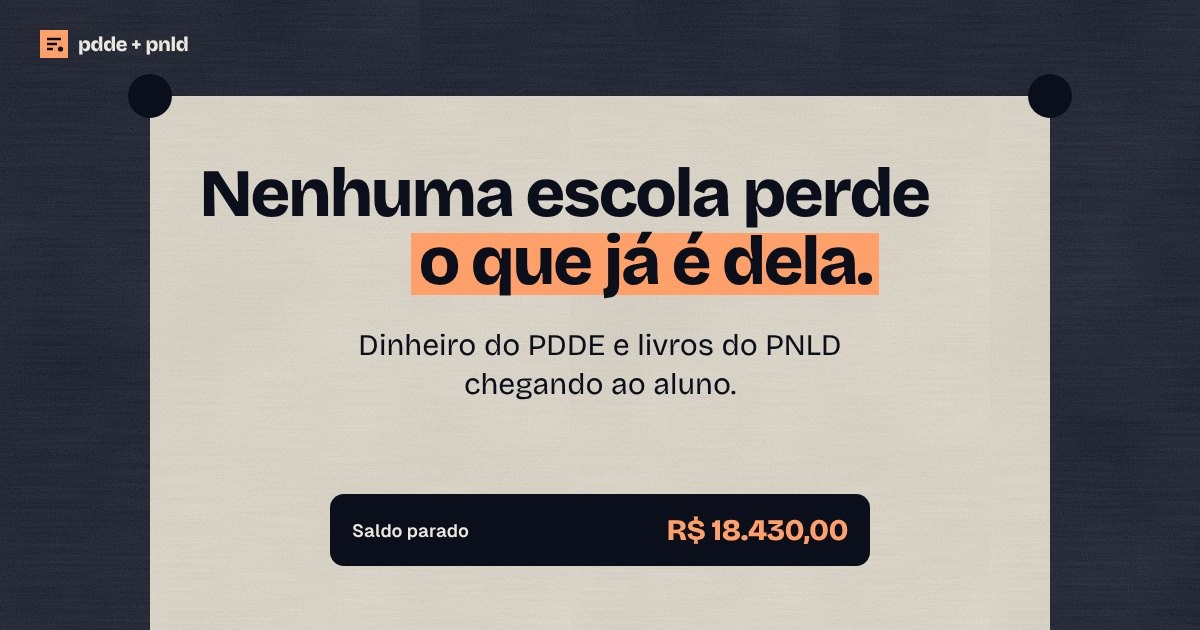
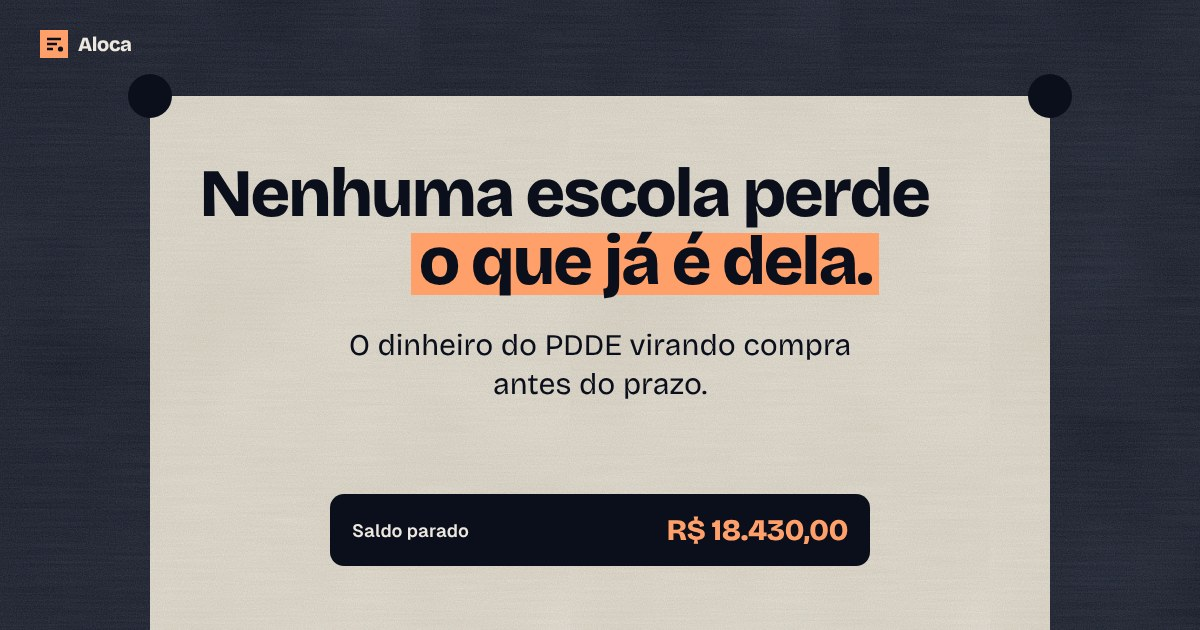
Feat: Adiciona o nome Aloca

Changed region(s): [[0.2775, 0.5127, 0.7092, 0.6333], [0.0617, 0.0603, 0.1542, 0.0905]]

diff --git a/index.html b/index.html
@@ -4,9 +4,9 @@
 		<meta charset="utf-8">
 		<meta name="viewport" content="width=device-width, initial-scale=1">
 
-		<title>Nenhuma escola perde o que já é dela | PDDE no prazo</title>
+		<title>Aloca | Nenhuma escola perde o que já é dela</title>
 		<meta name="description" content="Plataforma que ajuda o diretor e a APM a planejar e gastar o dinheiro do PDDE antes do prazo de estorno, com plano de compra, orçamentos e ata prontos.">
-		<meta name="keywords" content="PDDE, PDDE Básico, FNDE, escola pública, diretor escolar, APM, Unidade Executora, plano de compra, estorno do PDDE, Hack Brasil">
+		<meta name="keywords" content="PDDE, PDDE Básico, FNDE, escola pública, diretor escolar, APM, Unidade Executora, plano de compra, estorno do PDDE, Aloca, Hack Brasil">
 		<meta name="author" content="Guilherme Carvalho Mais, Gabriel Duarte Frias, João Gabriel Breganon Ferreira">
 		<meta name="robots" content="index, follow, max-image-preview:large">
 		<link rel="canonical" href="https://seudominio.com.br/">
@@ -18,8 +18,8 @@
 
 		<meta property="og:type" content="website">
 		<meta property="og:locale" content="pt_BR">
-		<meta property="og:site_name" content="Nenhuma escola perde o que já é dela">
-		<meta property="og:title" content="Nenhuma escola perde o que já é dela">
+		<meta property="og:site_name" content="Aloca">
+		<meta property="og:title" content="Aloca · Nenhuma escola perde o que já é dela">
 		<meta property="og:description" content="Ajudamos o diretor a planejar e gastar o dinheiro do PDDE antes que ele volte para o governo.">
 		<meta property="og:url" content="https://seudominio.com.br/">
 		<meta property="og:image" content="https://seudominio.com.br/img/og-image.jpg">
@@ -29,7 +29,7 @@
 		<meta property="og:image:alt" content="Extrato da conta PDDE de uma escola com o título Nenhuma escola perde o que já é dela.">
 
 		<meta name="twitter:card" content="summary_large_image">
-		<meta name="twitter:title" content="Nenhuma escola perde o que já é dela">
+		<meta name="twitter:title" content="Aloca · Nenhuma escola perde o que já é dela">
 		<meta name="twitter:description" content="O dinheiro do PDDE virando compra antes do prazo.">
 		<meta name="twitter:image" content="https://seudominio.com.br/img/og-image.jpg">
 		<meta name="twitter:image:alt" content="Extrato da conta PDDE de uma escola com o título Nenhuma escola perde o que já é dela.">
@@ -42,12 +42,13 @@
 						"@type": "WebSite",
 						"@id": "https://seudominio.com.br/#site",
 						"url": "https://seudominio.com.br/",
-						"name": "Nenhuma escola perde o que já é dela",
+						"name": "Aloca",
 						"inLanguage": "pt-BR"
 					},
 					{
 						"@type": "SoftwareApplication",
-						"name": "Nenhuma escola perde o que já é dela",
+						"name": "Aloca",
+						"slogan": "Nenhuma escola perde o que já é dela",
 						"applicationCategory": "BusinessApplication",
 						"operatingSystem": "Web",
 						"inLanguage": "pt-BR",
@@ -88,7 +89,7 @@
 					<path d="M7 9h14M7 14h10M7 19h6" stroke="#0b0f1c" stroke-width="2.6"/>
 					<circle cx="20.5" cy="19" r="2.6" fill="#0b0f1c"/>
 				</svg>
-				pdde no prazo
+				Aloca
 			</a>
 
 			<nav class="navegacao" aria-label="Seções da página">
@@ -456,7 +457,7 @@
 					<li><a href="https://hackbrasil.com/regulamento" rel="noopener">Regulamento</a></li>
 				</ul>
 
-				<p class="creditos">Projeto do Hack Brasil 2026 · Trilha Acesso à educação · Dados públicos do FNDE e do INEP</p>
+				<p class="creditos">Aloca · Projeto do Hack Brasil 2026 · Trilha Acesso à educação · Dados públicos do FNDE e do INEP</p>
 			</div>
 		</footer>
 	</body>

diff --git a/README.md b/README.md
@@ -1,6 +1,8 @@
-# Nenhuma escola perde o que já é dela
+# Aloca
 
-Plataforma que ajuda o diretor e a Unidade Executora (APM, caixa escolar) a planejar e gastar o dinheiro do **PDDE** antes que ele volte para o governo. O centro do produto é o **plano de compra**: a partir dos dados públicos do FNDE, ele mostra o que a escola pode comprar com o saldo que tem, com o prazo sempre visível no topo, e entrega os orçamentos e a ata prontos.
+**Nenhuma escola perde o que já é dela.**
+
+O **Aloca** é uma plataforma que ajuda o diretor e a Unidade Executora (APM, caixa escolar) a planejar e gastar o dinheiro do **PDDE** antes que ele volte para o governo. O centro do produto é o **plano de compra**: a partir dos dados públicos do FNDE, ele mostra o que a escola pode comprar com o saldo que tem, com o prazo sempre visível no topo, e entrega os orçamentos e a ata prontos.
 
 > Projeto do **Hack Brasil 2026** · Trilha **Acesso à educação**
 
